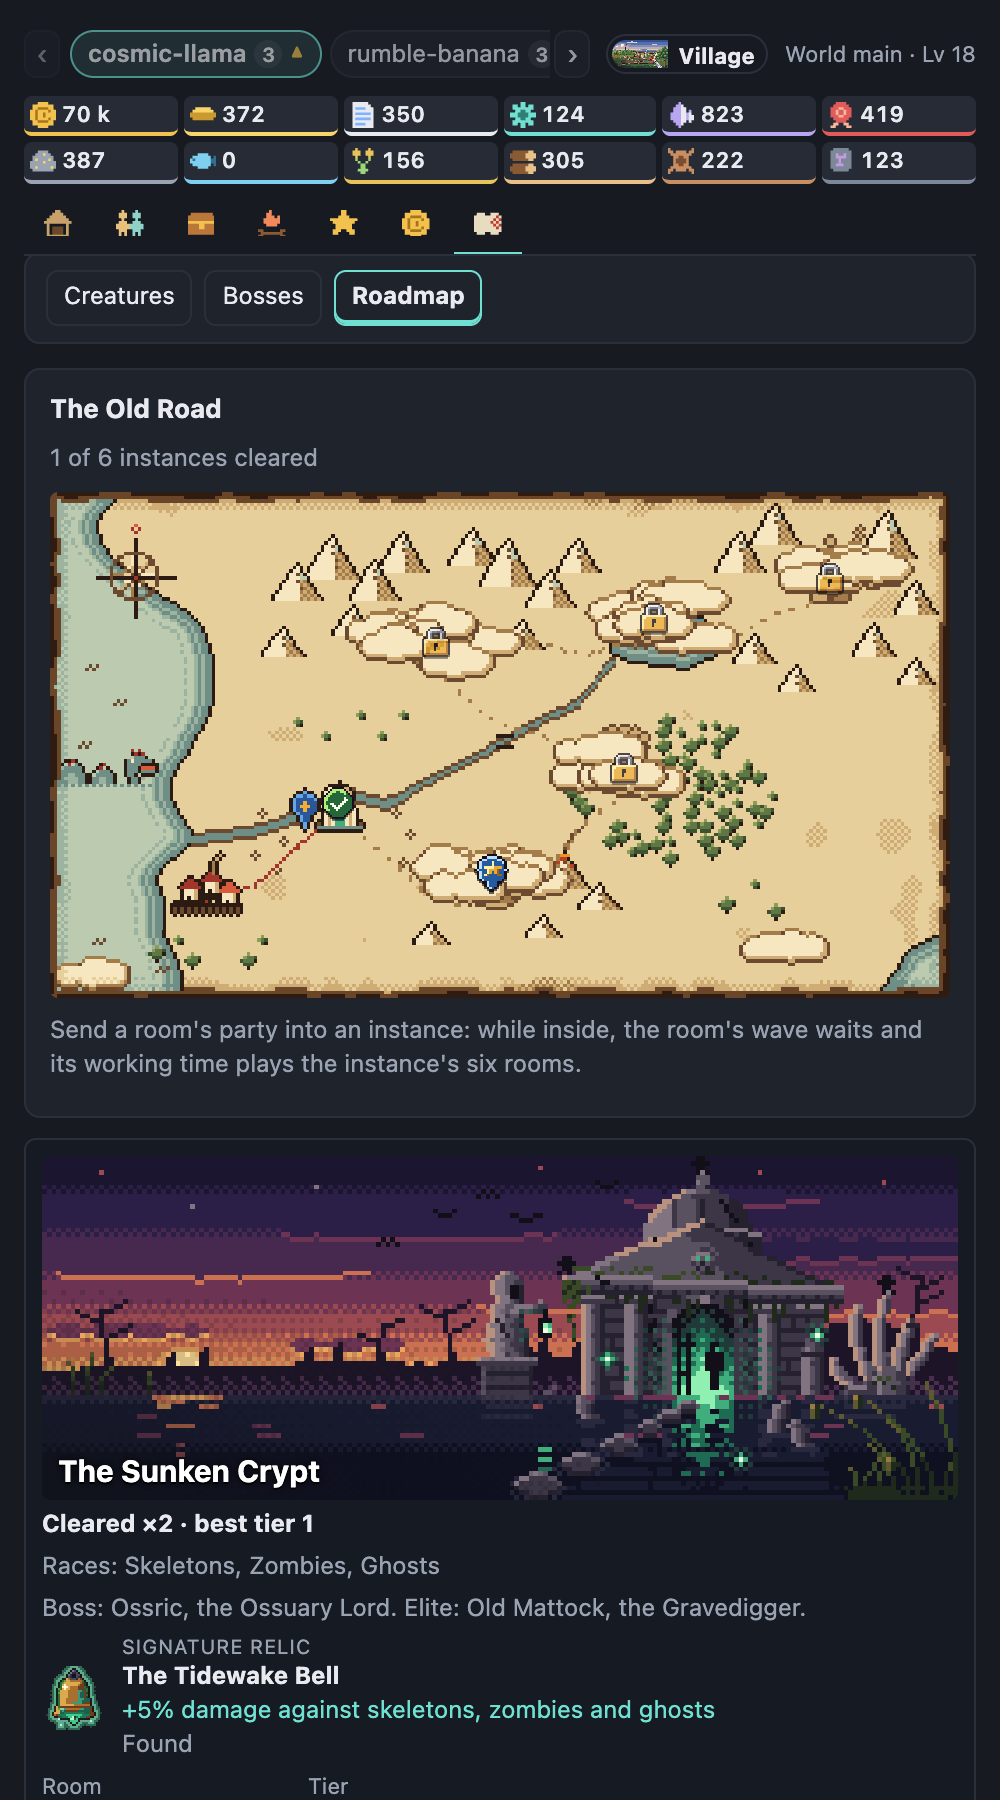
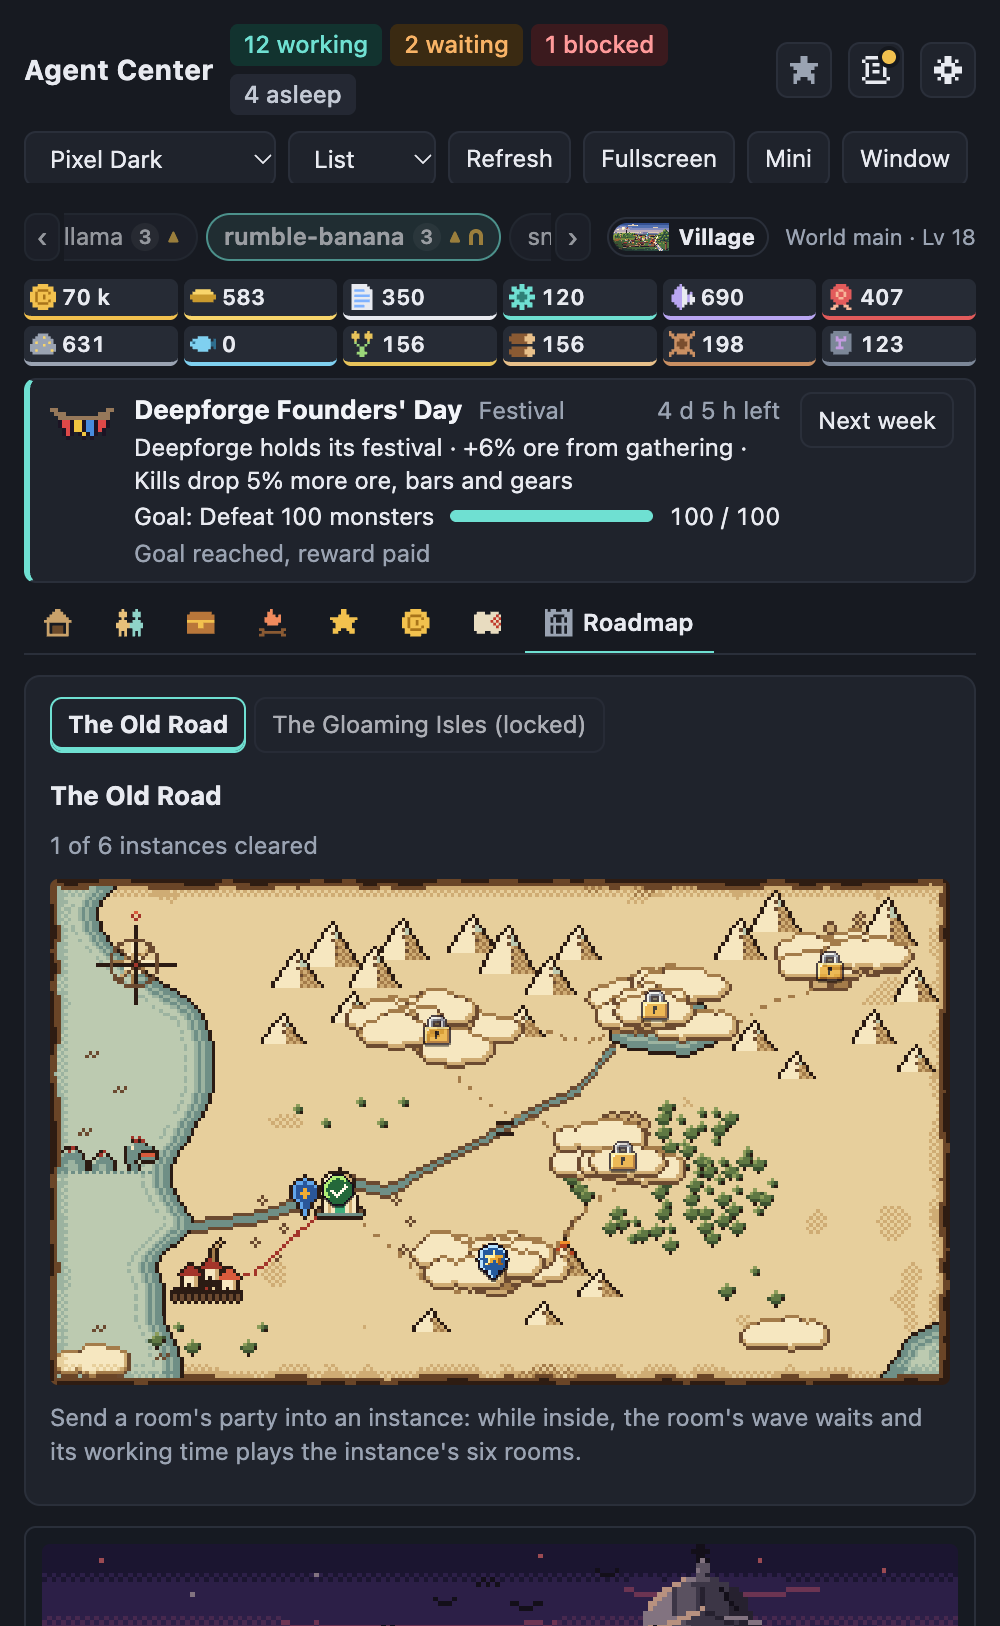
docs: retake the roadmap screenshot on its own tab
Taken from the frozen demo at 500 px: the weekly banner, the tab row
with the Roadmap tab open and its name shown, the region switch and the
Old Road's map. The README's alt text follows.

diff --git a/README.md b/README.md
@@ -142,7 +142,7 @@ the game: no clicking is needed, and nothing is lost by ignoring it for a day.
   defeating nine werewolves, that pays materials once. A banner above the tabs says what this
   week's does, how long it has left and how far the goal is, and shows next week's event.
 
-![The Roadmap: a parchment map of the road with a cleared crypt and a party on its way to the foundry, then the Sunken Crypt's card with its banner, "Cleared ×2", its races, boss and the Tidewake Bell relic, and its Enter control with a room and a tier](docs/screenshots/game-roadmap.png)
+![The Roadmap tab under the weekly event's banner: the switch between The Old Road and The Gloaming Isles (locked), then the parchment map of the road with a cleared crypt, a party on its way to the foundry and the sites ahead under fog](docs/screenshots/game-roadmap.png)
 
 ![The Bestiary tab: the hunter rank and boss hunter bars, then cards of slimes with the title Slime-scourer II, goblins, orcs and skeletons, each with its level, points to the next level, damage bonus and next step](docs/screenshots/game-bestiary.png)
 
